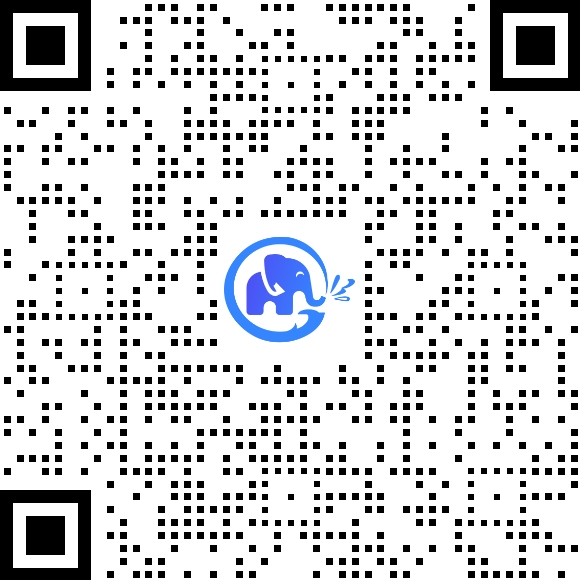
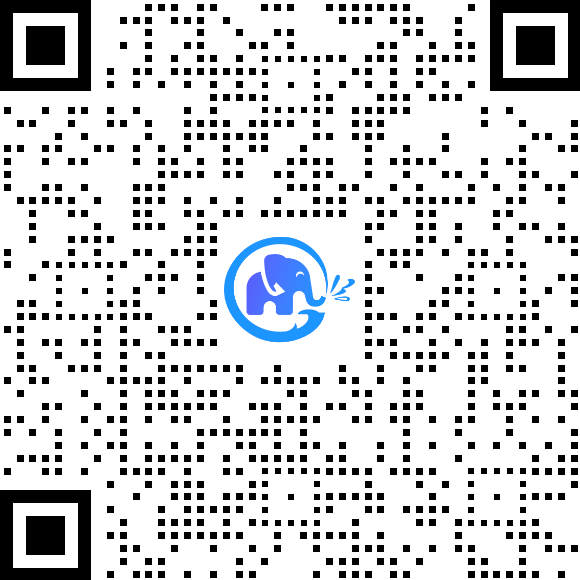
update wechat link

Changed region(s): [[0.3724, 0.4034, 0.6207, 0.5897], [0.4655, 0.4966, 0.4966, 0.5276]]

diff --git a/README.md b/README.md
@@ -1,7 +1,7 @@
 # GLM-4
 
 <p align="center">
- 📄<a href="https://arxiv.org/pdf/2406.12793" target="_blank"> Report </a> • 🤗 <a href="https://huggingface.co/collections/THUDM/glm-4-665fcf188c414b03c2f7e3b7" target="_blank">HF Repo</a> • 🤖 <a href="https://modelscope.cn/models/ZhipuAI/glm-4-9b-chat" target="_blank">ModelScope</a> • 🟣 <a href="https://wisemodel.cn/models/ZhipuAI/glm-4-9b-chat" target="_blank">WiseModel</a> • 🐦 <a href="https://twitter.com/thukeg" target="_blank">Twitter</a> • 👋 加入我们的 <a href="https://discord.gg/fK2dz4bg" target="_blank">Discord</a> 和 <a href="resources/WECHAT.md" target="_blank">微信</a>
+ 📄<a href="https://arxiv.org/pdf/2406.12793" target="_blank"> Report </a> • 🤗 <a href="https://huggingface.co/collections/THUDM/glm-4-665fcf188c414b03c2f7e3b7" target="_blank">HF Repo</a> • 🤖 <a href="https://modelscope.cn/models/ZhipuAI/glm-4-9b-chat" target="_blank">ModelScope</a> • 🟣 <a href="https://wisemodel.cn/models/ZhipuAI/glm-4-9b-chat" target="_blank">WiseModel</a> • 🐦 <a href="https://twitter.com/thukeg" target="_blank">Twitter</a> • 👋 加入我们的 <a href="https://discord.gg/8cnQKdAprg" target="_blank">Discord</a> 和 <a href="resources/WECHAT.md" target="_blank">微信</a>
 </p>
 <p align="center">
 📍在 <a href="https://open.bigmodel.cn/?utm_campaign=open&_channel_track_key=OWTVNma9">智谱AI开放平台</a> 体验和使用更大规模的 GLM 商业模型。

diff --git a/README_en.md b/README_en.md
@@ -1,7 +1,7 @@
 # GLM-4
 
 <p align="center">
- 📄<a href="https://arxiv.org/pdf/2406.12793" target="_blank"> Report </a> • 🤗 <a href="https://huggingface.co/collections/THUDM/glm-4-665fcf188c414b03c2f7e3b7" target="_blank">HF Repo</a> • 🤖 <a href="https://modelscope.cn/models/ZhipuAI/glm-4-9b-chat" target="_blank">ModelScope</a>  • 🟣 <a href="https://wisemodel.cn/models/ZhipuAI/glm-4-9b-chat" target="_blank">WiseModel</a>  • 🐦 <a href="https://twitter.com/thukeg" target="_blank">Twitter</a> • 👋 Join <a href="https://discord.gg/fK2dz4bg" target="_blank">Discord</a> and <a href="resources/WECHAT.md" target="_blank">WeChat</a>
+ 📄<a href="https://arxiv.org/pdf/2406.12793" target="_blank"> Report </a> • 🤗 <a href="https://huggingface.co/collections/THUDM/glm-4-665fcf188c414b03c2f7e3b7" target="_blank">HF Repo</a> • 🤖 <a href="https://modelscope.cn/models/ZhipuAI/glm-4-9b-chat" target="_blank">ModelScope</a>  • 🟣 <a href="https://wisemodel.cn/models/ZhipuAI/glm-4-9b-chat" target="_blank">WiseModel</a>  • 🐦 <a href="https://twitter.com/thukeg" target="_blank">Twitter</a> • 👋 Join <a href="https://discord.gg/8cnQKdAprg" target="_blank">Discord</a> and <a href="resources/WECHAT.md" target="_blank">WeChat</a>
 </p>
 <p align="center">
 📍Experience and use a larger-scale GLM business model on the <a href="https://open.bigmodel.cn/?utm_campaign=open&_channel_track_key=OWTVNma9">Zhipu AI Open Platform</a>

diff --git a/resources/WECHAT.md b/resources/WECHAT.md
@@ -1,7 +1,7 @@
 <div align="center">
 <img src=wechat.jpg width="60%"/>
 
-<p> 扫码关注公众号，加入「GLM-4交流群」 </p>
-<p> Scan the QR code to follow the official account and join the "ChatGLM Discussion Group" </p>
+<p> 扫码加入「GLM-4交流群」 </p>
+<p> Scan the QR code to follow to join the "ChatGLM Discussion Group" </p>
 </div>
 
